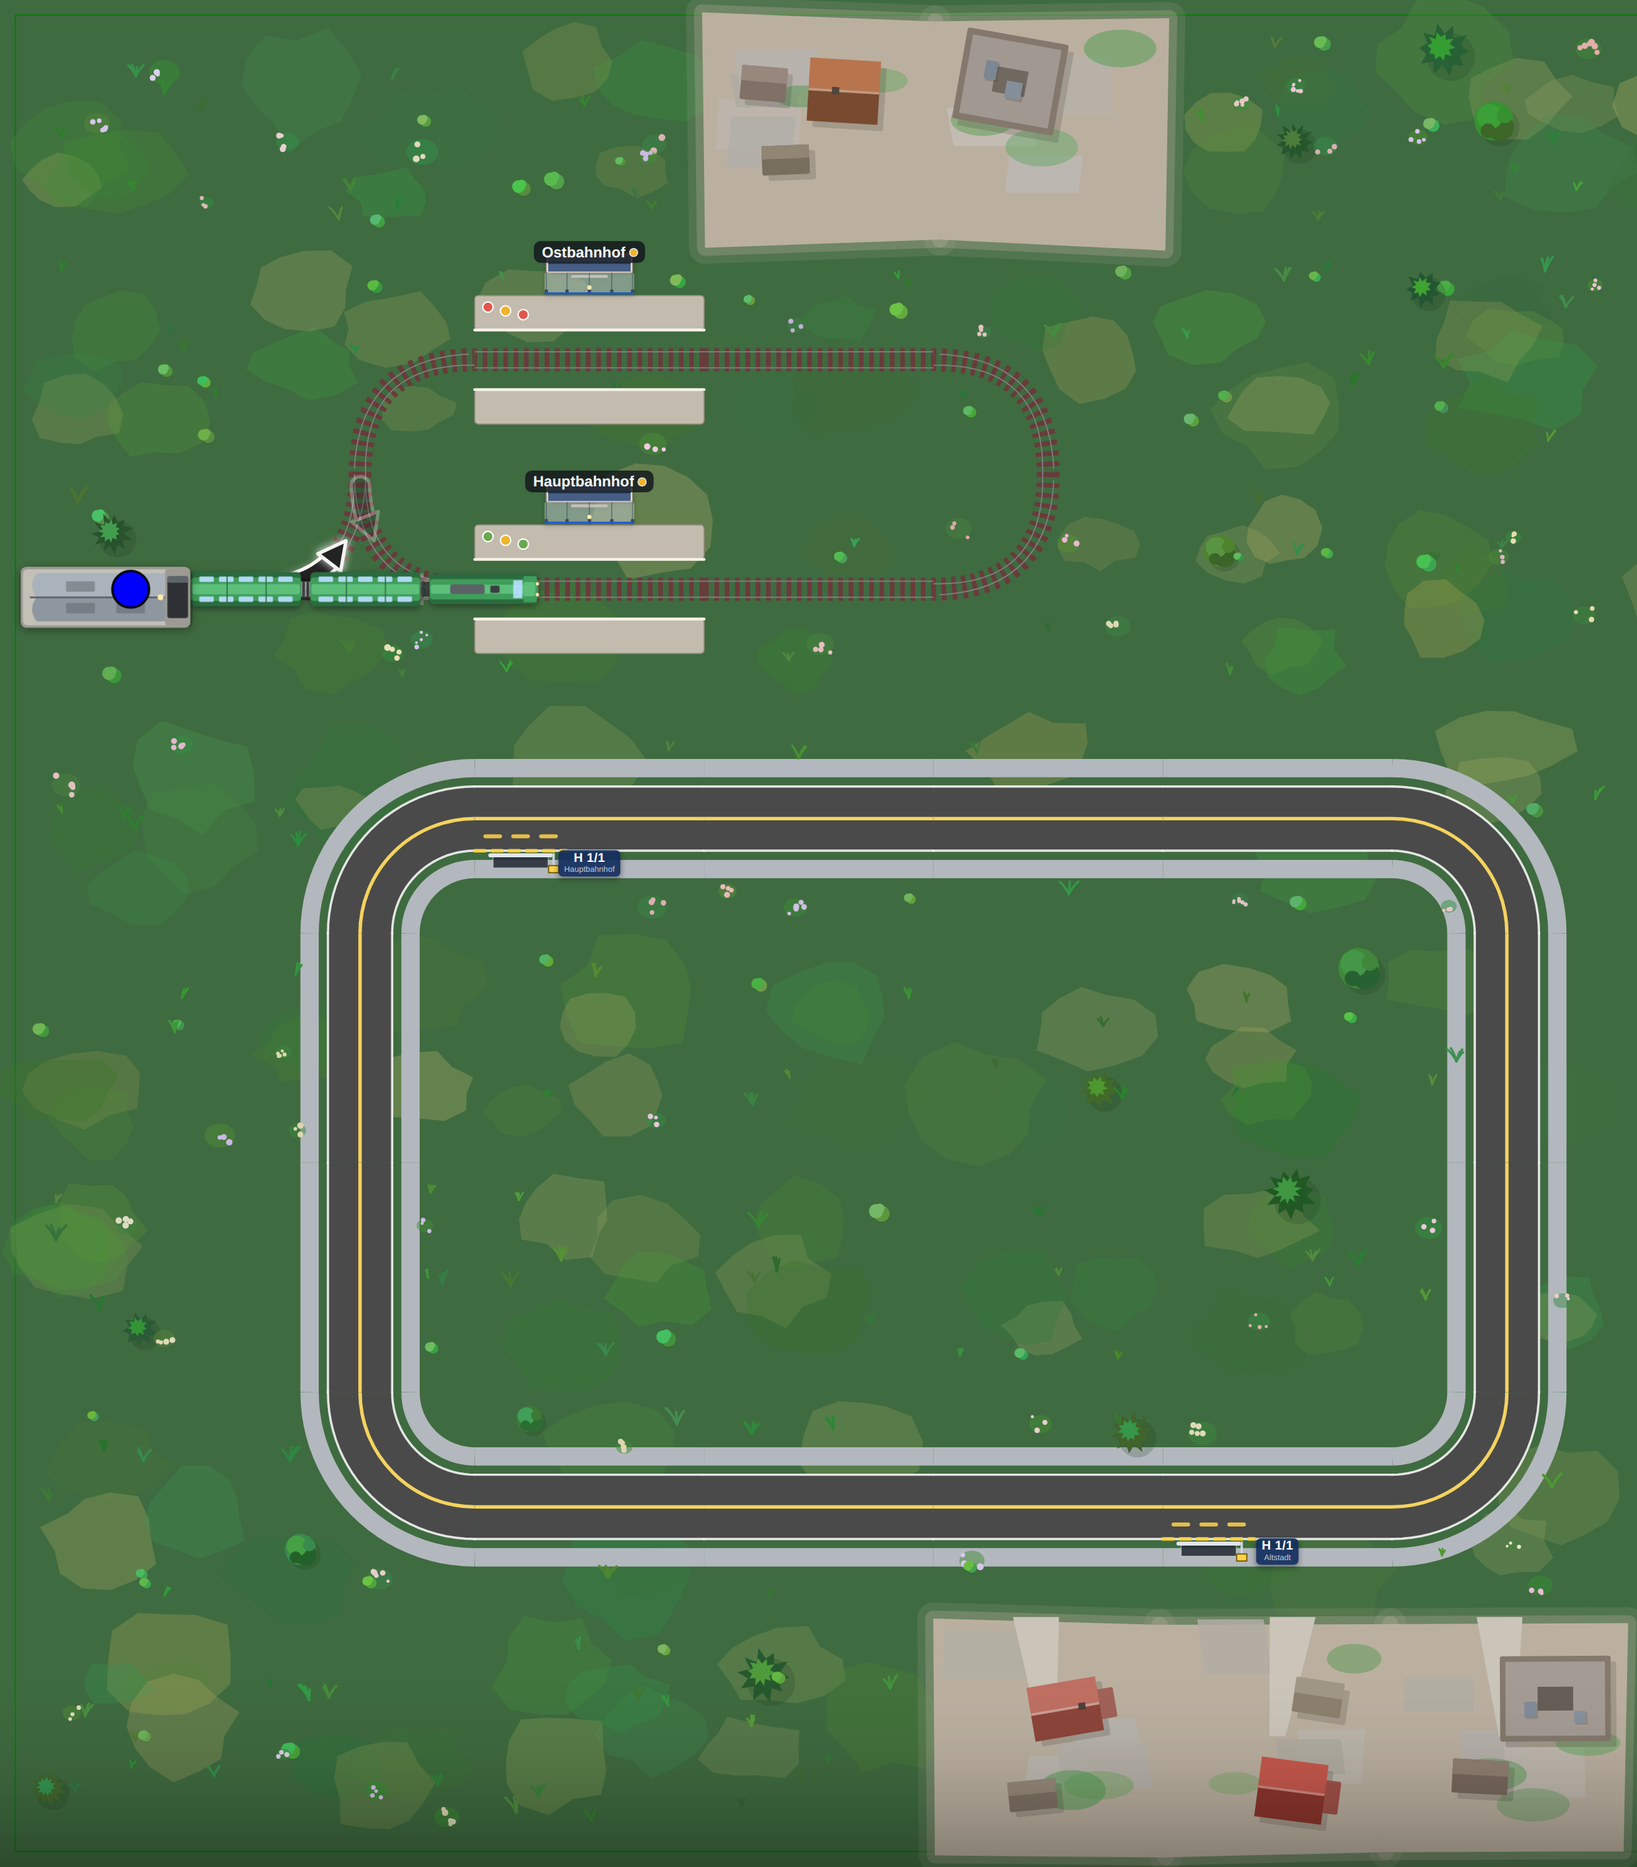
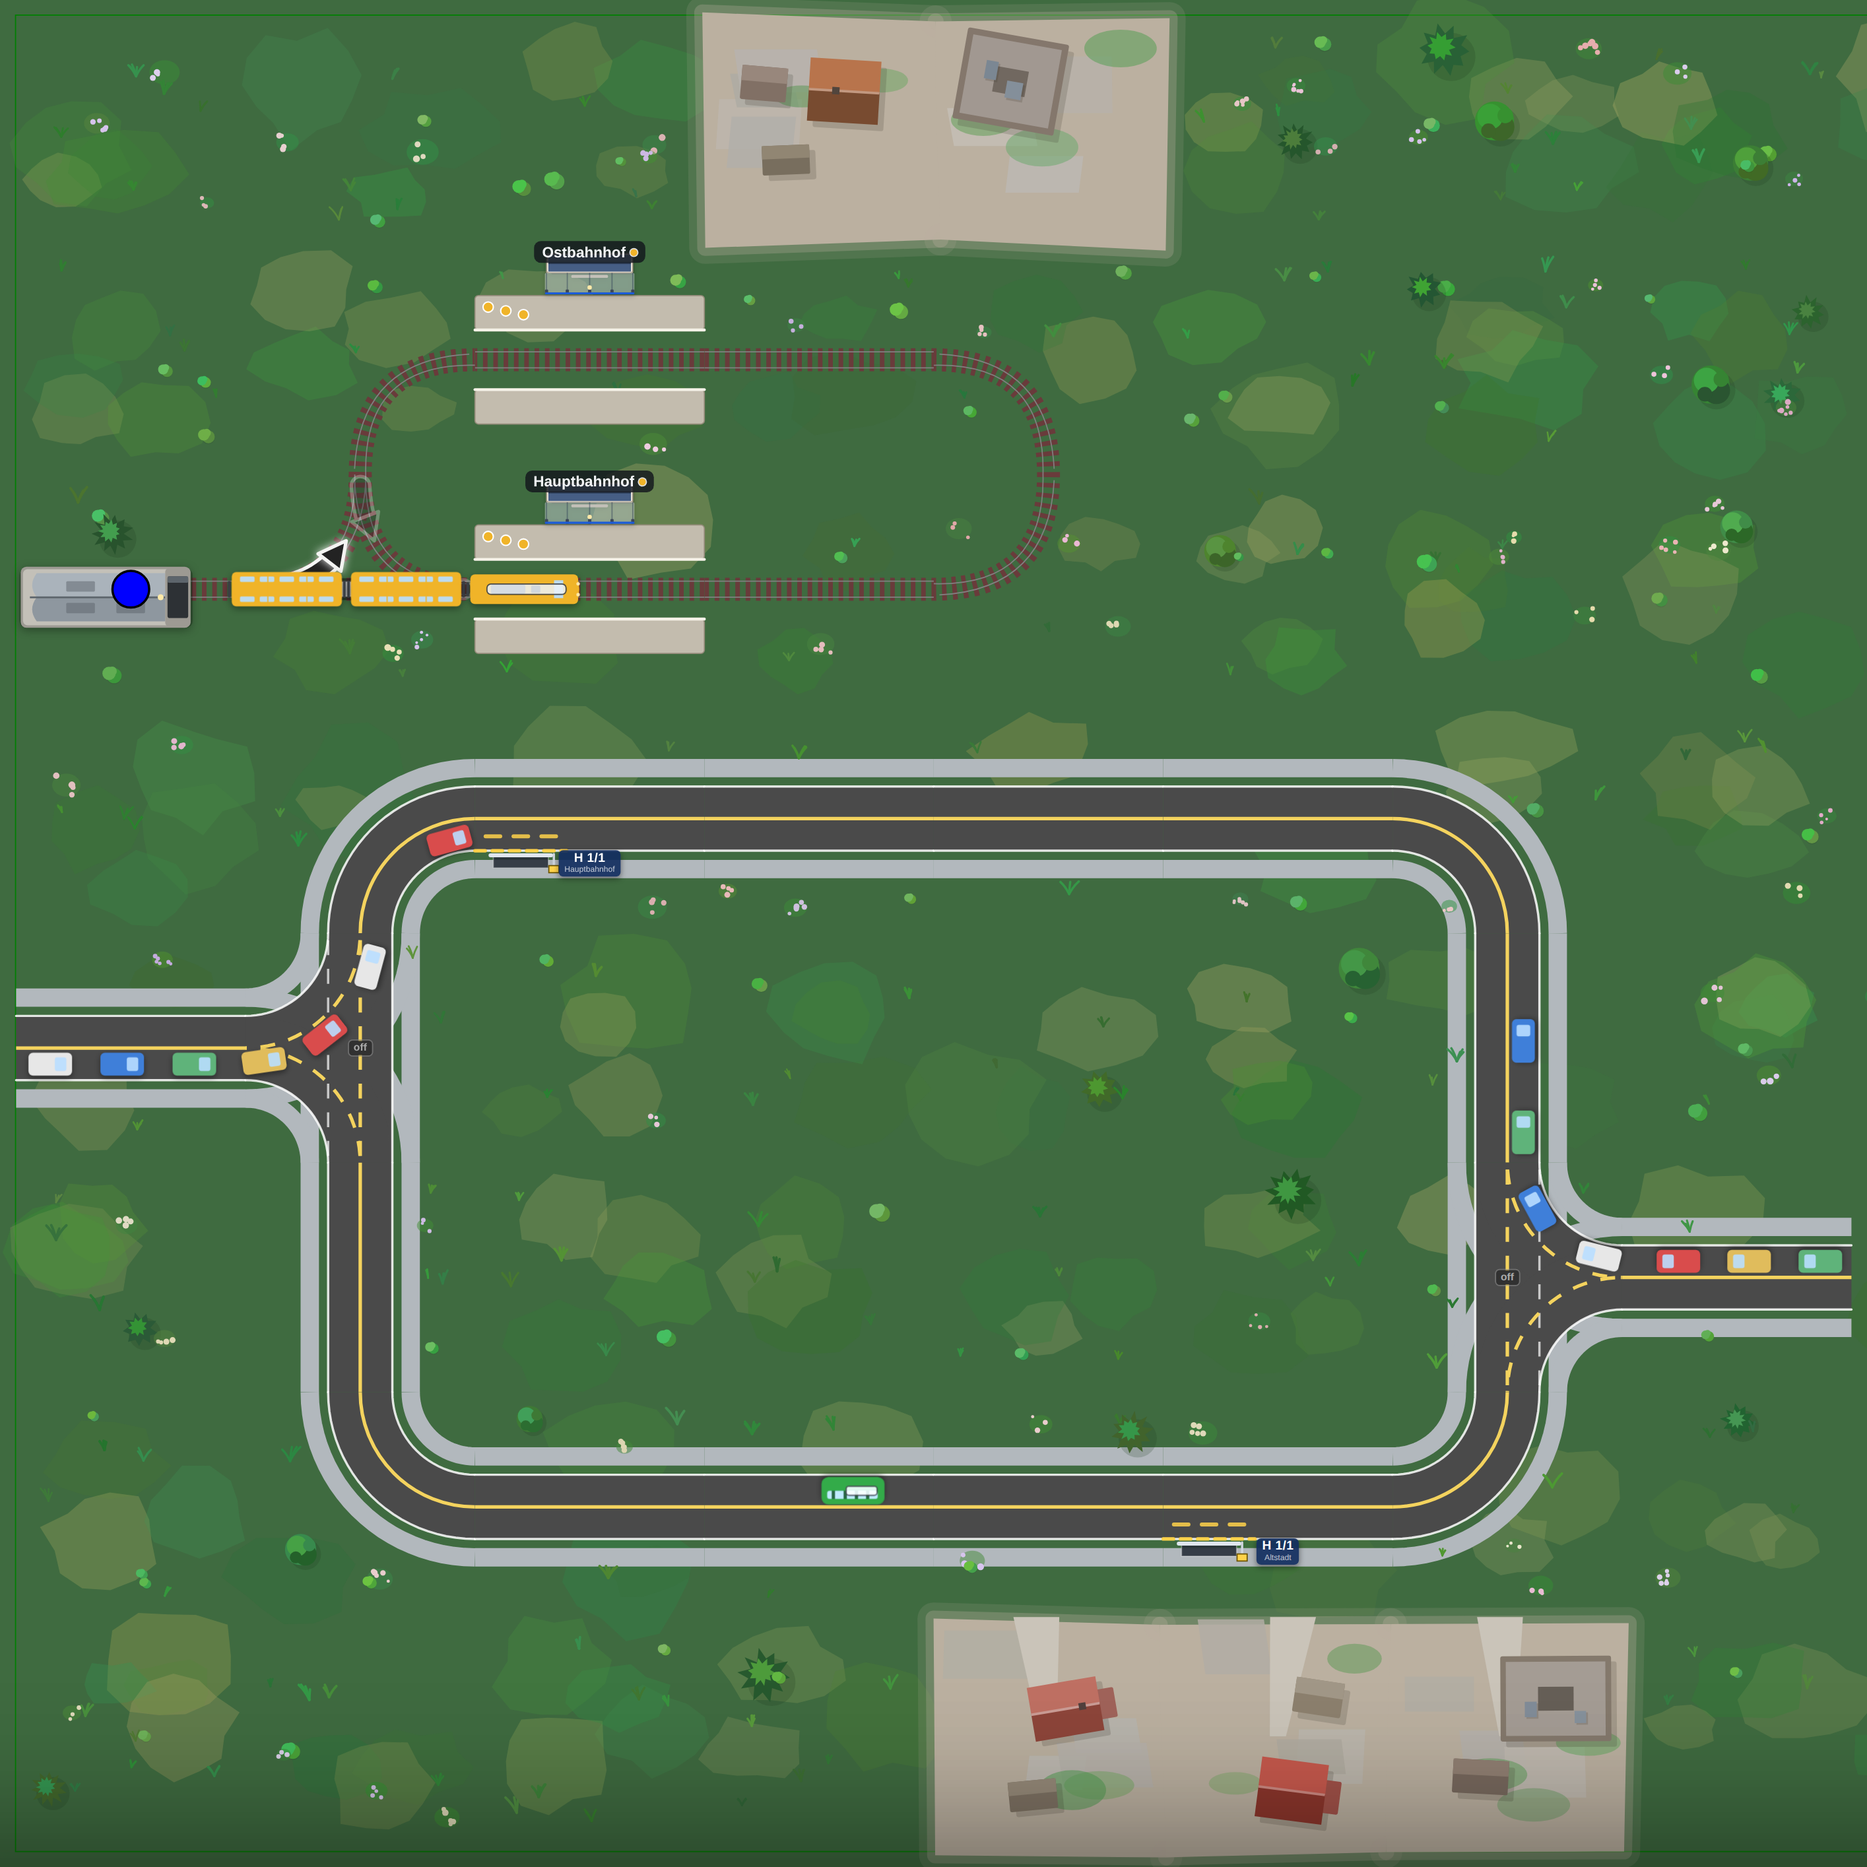
feat(board): busrail opens with a bus, a way in from outside, and liveries that match their line
Three things reported from playing the preview.

THE BOARD ABOUT BUSES HAD NO BUS. A train can be authored into a scenario
(mkLineTrain puts it in a depot with its line); a bus had no equivalent, so
busrail opened empty and the mechanic it exists to show was invisible until
the visitor drew a line and bought one themselves. TestScenario gains
busLines, seeded by both the play board and the /test stage — a bus lives on
its line, so it can only be placed once the line exists, which is why this is
in the view's mounted and not in the level data.

WHERE DO ROAD VEHICLES COME FROM? A map edge — and the ring road had none, so
nothing could enter it at all. Two stubs now run out to the edges through Ts
on the ring's sides: cars drive in at one and out at the other. A bus needs
none of it (it appears at its first stop), but a ring nothing can enter reads
as a race track rather than a town's streets.

A VEHICLE WEARS ITS LINE'S COLOUR. Reported of /test/transfer: the yellow
train was collecting the green line's passengers and the green train the
yellow line's, which is worse than arbitrary — it reads as a rule that is
being broken. The dots were already coloured by the line they wait for, so
tying the vehicle to the same colour closes the loop: green train, green
dots, green row in the panel. Only where lines ARE the game (hud.passengers);
in the classic modes a livery is a RULE — it must match the depot the train
[…]

diff --git a/src/views/TestStage.vue b/src/views/TestStage.vue
@@ -124,7 +124,7 @@
         <TileGround :coord-id="cell.key" layer="canopy" />
       </div>
       <div
-        v-for="car in roadCars"
+        v-for="car in roadCarsView"
         :key="car.id"
         :class="['road-car', `road-car--${car.part}`, { 'road-car--inspect': config.debug }]"
         :style="{
@@ -137,6 +137,15 @@
         @click.stop="onCarClick(car.id)"
       >
         <span v-if="car.part !== 'trailer'" class="road-car-glass"></span>
+        <!-- The load gauge a service vehicle wears, the same one the play board
+             draws (PlayView.vue): a scenario that shows buses has to show what
+             they are carrying, or /test/busrail is a bus-shaped rectangle. -->
+        <span v-if="car.load" class="vehicle-load" :title="car.load.title">
+          <span
+            class="vehicle-load-fill"
+            :style="{ width: car.load.pct + '%', background: car.load.colour }"
+          />
+        </span>
         <span
           v-if="config.debug && car.part !== 'trailer'"
           class="road-car-id"
@@ -208,7 +217,7 @@ import { Component, Inject, Prop, Provide, Vue, toNative } from "vue-facing-deco
 import { GameConfig, GAME_CONFIG_KEY, gameConfig } from "@/gameConfig";
 import { TrainsDefinition } from "@/types";
 import { Level, TileCell, isLevelCrossing } from "@/tiles/model";
-import { createGame, FareBadge, Game, MoneyState, TrainDef } from "@/game";
+import { createGame, FareBadge, Game, MoneyState, RoadCar, TrainDef } from "@/game";
 import { sandboxMode } from "@/modes/sandbox";
 import { modeById } from "@/modes/index";
 import { TestScenario, scenarioGrid } from "@/levels/test/scenario";
@@ -372,6 +381,13 @@ class TestStage extends Vue {
     this.$nextTick(() => this.fitWorld());
     window.addEventListener("resize", this.onWindowResize);
     this.game.start();
+    // The bus lines the board was authored with, each with a bus on it. A train
+    // arrives with the level (it sits in a depot); a bus lives on its line, so
+    // there is nothing to place until the line exists — which is why this is
+    // here and not in the level data.
+    for (const stops of this.scenario.busLines ?? []) {
+      this.game.buyBus(this.game.createLine(stops));
+    }
     // The test world has no start overlay, so drive the objective to Playing
     // immediately — this is what lets mode mechanics that only run while live
     // (e.g. Time Attack's scheduled spawner) actually fire.
@@ -426,8 +442,29 @@ class TestStage extends Vue {
   // Stable colour per vehicle from the number in its base id (car0, car1, …). The
   // render id is `${carId}#${segment}`, so strip the segment suffix first — this
   // keeps a semi's cab and trailer in one livery.
+  // The cars with their gauges attached, and a service vehicle painted in its
+  // line's colour — both exactly as the play board does them (PlayView.vue).
+  get roadCarsView(): (RoadCar & {
+    load: { pct: number; colour: string; title: string } | null;
+  })[] {
+    return this.roadCars.map(car => ({
+      ...car,
+      load: car.unit === 0 ? this.carLoad(car.vehicleId) : null,
+    }));
+  }
+  carLoad(carId: string): { pct: number; colour: string; title: string } | null {
+    const at = this.game.vehicleLoads?.[carId];
+    if (!at || at.seats <= 0) return null;
+    return {
+      pct: Math.max(0, Math.min(100, Math.round((at.aboard / at.seats) * 100))),
+      colour: at.colour || "#cbd5e1",
+      title: `${at.aboard}/${at.seats} aboard`,
+    };
+  }
   carColor(id: string): string {
     const base = id.split("#")[0];
+    const service = this.game.vehicleLoads?.[base];
+    if (service?.colour) return service.colour;
     const n = parseInt(base.replace(/\D/g, ""), 10) || 0;
     return this.carPalette[n % this.carPalette.length];
   }
@@ -744,6 +781,27 @@ export default toNative(TestStage);
 }
 // A rigid truck's cab is only the front of its longer body, so its windscreen is
 // a small pane right at the nose rather than a wide window like a car's.
+/* The service vehicle's load gauge — same shape and reasoning as the play
+   board's (PlayView.vue): a light trough so the empty part reads against the
+   vehicle's own paint, riding with the body so it needs no counter-rotation. */
+.vehicle-load {
+  position: absolute;
+  left: 10%;
+  top: 50%;
+  width: 48%;
+  height: 7px;
+  transform: translateY(-50%);
+  background: rgba(236, 242, 248, 0.85);
+  border: 1px solid rgba(12, 16, 22, 0.75);
+  border-radius: 3px;
+  overflow: hidden;
+  pointer-events: none;
+}
+.vehicle-load-fill {
+  display: block;
+  height: 100%;
+  border-radius: 3px;
+}
 .road-car--truck .road-car-glass {
   left: 76%;
   width: 13%;

diff --git a/src/levels/test/scenarios/busrail.ts b/src/levels/test/scenarios/busrail.ts
@@ -1,7 +1,7 @@
 import { Position } from "@/types";
 import { expandKind } from "@/tiles/kinds";
 import { TileCell } from "@/tiles/model";
-import { twoWay } from "@/tiles/lanes";
+import { fromPairs, twoWay } from "@/tiles/lanes";
 import { TestScenario, mkLineTrain, railRing } from "@/levels/test/scenario";
 import type { ParkingRow } from "@/tiles/parking";
 
@@ -52,11 +52,16 @@ const stationEW = (name: string): TileCell => ({
 //
 //   ring road   1,3 ─ HALT(2,3) ─ 3,3 ─ 4,3 ─ 5,3 ─ 6,3     <- 2,3 is under HBF
 //                │                                   │
-//               1,4                                 6,4
+//        0,4 ── 1,4                                 6,4
 //                │                                   │
-//               1,5                                 6,5
+//               1,5                                 6,5 ── 7,5
 //                │                                   │
 //               1,6 ─ 2,6 ─ 3,6 ─ 4,6 ─ ALT(5,6) ─ 6,6
+//
+// The two stubs at 0,4 and 7,5 are where ORDINARY traffic comes from: cars enter
+// at a map edge and leave by the other. A bus does not use them — it lives on
+// its line and appears at its first stop — but a ring with no way in reads as a
+// race track rather than a town's streets.
 export const busrail: TestScenario = {
   id: "busrail",
   name: "Bus and train",
@@ -99,11 +104,32 @@ export const busrail: TestScenario = {
     "4,3": road(Position.Left, Position.Right),
     "5,3": road(Position.Left, Position.Right),
     "6,3": road(Position.Left, Position.Bottom), // NE corner
-    // The two sides.
-    "1,4": road(Position.Top, Position.Bottom),
+    // The two sides. Each carries a T where the road out of town joins, so the
+    // ring is connected to the world beyond the map rather than being a sealed
+    // circuit: ordinary traffic drives IN at one edge and out at the other.
+    // (A bus needs none of this — it lives on its line and appears at its first
+    // stop — but a ring road nothing can enter reads as a race track.)
+    "1,4": {
+      connections: [],
+      road: fromPairs([
+        [Position.Top, Position.Bottom], // the ring itself
+        [Position.Left, Position.Top],
+        [Position.Left, Position.Bottom],
+      ]),
+    },
     "1,5": road(Position.Top, Position.Bottom),
     "6,4": road(Position.Top, Position.Bottom),
-    "6,5": road(Position.Top, Position.Bottom),
+    "6,5": {
+      connections: [],
+      road: fromPairs([
+        [Position.Top, Position.Bottom],
+        [Position.Right, Position.Top],
+        [Position.Right, Position.Bottom],
+      ]),
+    },
+    // ...and the two roads out, each running to a map edge.
+    "0,4": road(Position.Left, Position.Right),
+    "7,5": road(Position.Left, Position.Right),
     // South side. ALTSTADT is out of walking reach of any platform, so the bus
     // is the only way its people reach the railway at all.
     "1,6": road(Position.Top, Position.Right), // SW corner
@@ -135,9 +161,14 @@ export const busrail: TestScenario = {
     // for ever — a ring needs no turn-back.
     rail: mkLineTrain("rail", 0, 2, "people", 2, ["2,2", "2,1"]),
   },
+  // THE BUS THE BOARD IS ABOUT. Authored like the train above: Altstadt to the
+  // Hauptbahnhof kerb, with a bus on it from the first frame. Without this the
+  // board that exists to show a bus opened with no bus, and the mechanic was
+  // invisible until a visitor drew the line themselves.
+  busLines: [["5,6", "2,3"]],
   colors: {
     depotColors: { "0,2": "blue" },
     trainColors: { rail: "green" },
   },
-  size: { cols: 8, rows: 8 },
+  size: { cols: 9, rows: 8 },
 };

diff --git a/src/game.ts b/src/game.ts
@@ -2816,6 +2816,35 @@ export function createGame(
   // asking the sim alone reports "no line" for a train the player has just
   // routed — and `trainInit` carries `def.line` over when it finally rolls out,
   // so the definition is the honest answer until then.
+  // A VEHICLE WEARS ITS LINE'S COLOUR — on a board where a line is the plan.
+  //
+  // The liveries used to come from the depot-matching palette, which on a
+  // service board says nothing: `/test/transfer` had a yellow train working the
+  // green line and a green train working the yellow one, each collecting dots of
+  // the OTHER colour. The dots are already coloured by the line somebody is
+  // waiting for, so tying the vehicle to the same colour makes the board read at
+  // a glance: green train, green dots, green row in the panel.
+  //
+  // Only where lines ARE the game (`hud.passengers`). In the classic modes a
+  // train's colour is a RULE — it has to match the depot it delivers to — and
+  // repainting it would break the mechanic rather than explain it. A vehicle
+  // with no line keeps its own livery either way: that is the only identity it
+  // has.
+  function liveryOf(trainId: string): string {
+    const own = assignedColors.trainColors[trainId] ?? trainColors[trainId];
+    if (!mode.hud.passengers) return own;
+    const lineId = sim.trains[trainId] ? sim.lineOf(trainId) : undefined;
+    const line = lineId ? lines.find(l => l.id === lineId) : undefined;
+    return line?.colour ?? own;
+  }
+
+  function syncLiveries(): void {
+    for (const id of Object.keys(trainColors)) {
+      const want = liveryOf(id);
+      if (trainColors[id] !== want) trainColors[id] = want;
+    }
+  }
+
   function syncLine(trainId: string): void {
     const stops = sim.trains[trainId]
       ? sim.trainLine(trainId)
@@ -2842,6 +2871,9 @@ export function createGame(
         kind: lineKindOf(line.stops),
       });
     }
+    // The lines have just been rebuilt, so the liveries that follow them can be
+    // brought into step — after `lines`, because that is what liveryOf reads.
+    syncLiveries();
     for (const id of Object.keys(stationLines)) delete stationLines[id];
     for (const line of lines) {
       for (const stop of line.stops) {

diff --git a/src/views/PlayView.vue b/src/views/PlayView.vue
@@ -992,6 +992,13 @@ class PlayView extends Vue {
     saveLastModeId(this.mode.id);
     this.best = loadBest(this.levelId);
     this.game.start(); // start the rAF loop (rendering); objective stays Ready
+    // The bus lines this board was authored with (`?board=<scenario>`), each
+    // with a bus on it — the same seeding /test does, so a board plays the way
+    // it demonstrates. A train comes with the level; a bus lives on its line,
+    // so it can only be placed once the line exists.
+    for (const stops of this.board?.busLines ?? []) {
+      this.game.buyBus(this.game.createLine(stops));
+    }
     if (!this.game.mode.hud.startOverlay) this.game.startObjective();
     // Test hook: expose the live game so e2e can read simulation state without
     // depending on Vue's internal instance shape.
@@ -2082,6 +2089,12 @@ class PlayView extends Vue {
   // keeps a semi's cab and trailer in one livery.
   carColor(id: string): string {
     const base = id.split("#")[0];
+    // A SERVICE VEHICLE WEARS ITS LINE'S COLOUR, like the train does: the bus on
+    // the green line is green, and so are the people waiting for it and its row
+    // in the panel. An ordinary car keeps a colour from the traffic palette —
+    // it is somebody's own journey, not a service anyone is waiting for.
+    const service = this.game.vehicleLoads?.[base];
+    if (service?.colour) return service.colour;
     const n = parseInt(base.replace(/\D/g, ""), 10) || 0;
     return this.carPalette[n % this.carPalette.length];
   }

diff --git a/src/levels/test/scenario.ts b/src/levels/test/scenario.ts
@@ -17,6 +17,15 @@ export interface TestScenario {
   // Pin depot/train colours (e.g. to force a depot-mismatch bounce). When
   // omitted, createGame's seeded auto-assignment is used.
   colors?: ColorAssignment;
+  // BUS LINES THE BOARD OPENS WITH — each an ordered list of bus-stop tiles,
+  // and each given one bus.
+  //
+  // A train can be authored into a scenario (`mkLineTrain` puts it in a depot
+  // with its line), and a bus had no equivalent: `busrail` is the board about
+  // buses and it opened with no bus on it, so the mechanic it exists to show was
+  // invisible until the visitor drew a line and bought one. A demo has to
+  // demonstrate.
+  busLines?: string[][];
   // Explicit grid size; defaults to the level's derived extents.
   size?: { cols: number; rows: number };
   // Per-level road-traffic settings (busyness + vehicle mix). Omitted → the
